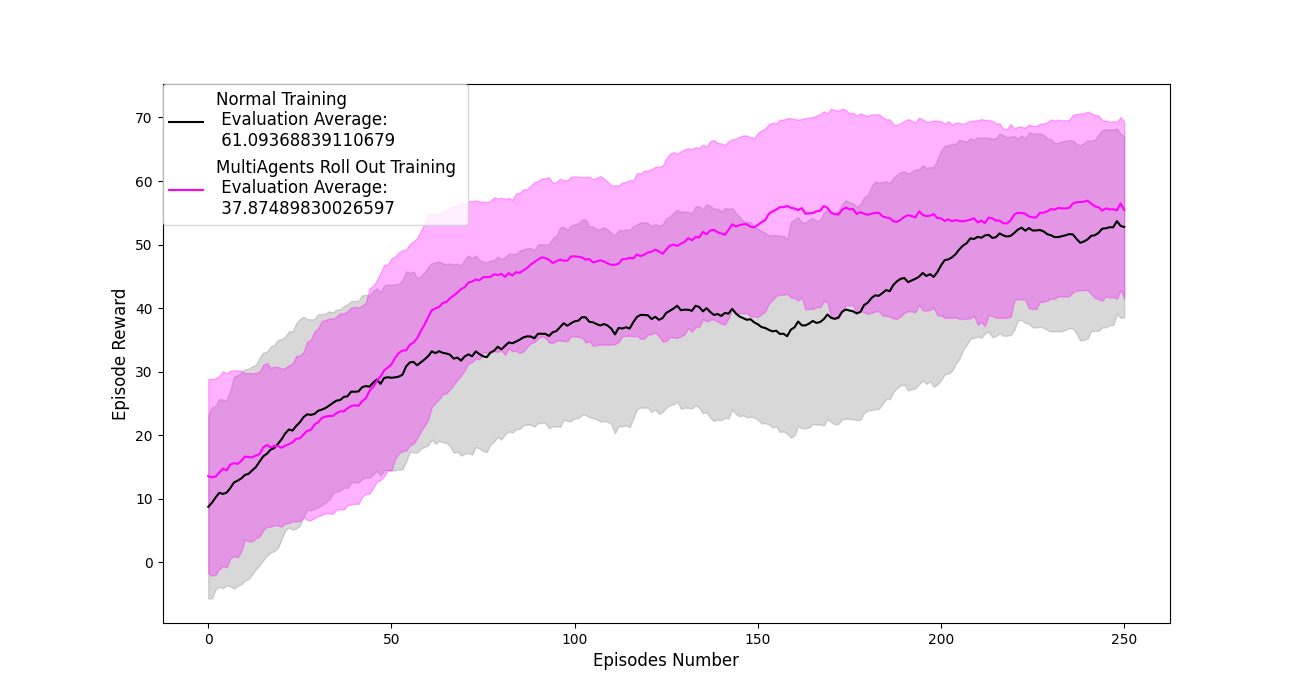
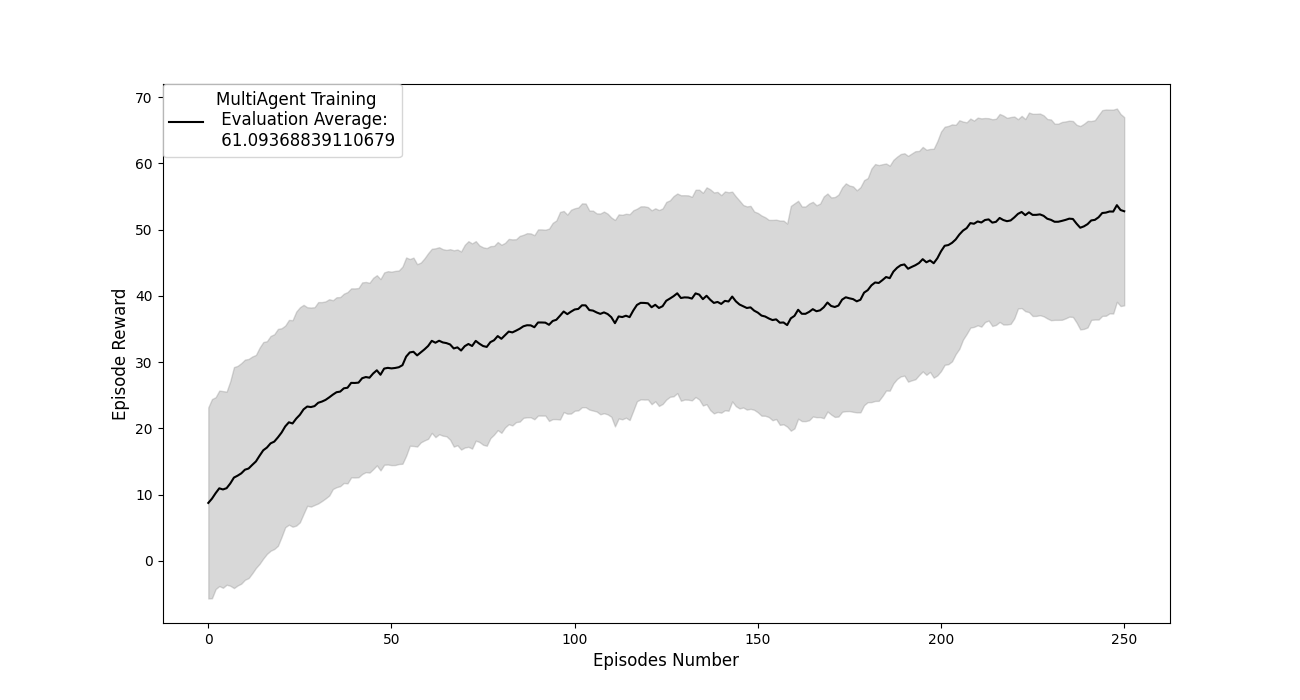
new

diff --git a/swimmer/Final/Normal.py b/swimmer/Final/Normal.py
@@ -1,0 +1,91 @@
+from tensorforce import Agent, Environment
+import matplotlib.pyplot as plt
+import numpy as np
+import math
+import pickle
+from tqdm import tqdm
+import gym
+
+episode_number=10000
+evaluation_episode_number=10
+average_over=50
+
+def set_exploration(num_steps,initial_value,decay_rate,set_type='exponential'):
+    exploration=dict(type=set_type, unit='timesteps',
+                 num_steps=num_steps,initial_value=initial_value,
+                 decay_rate=decay_rate)
+    return exploration
+exploration=set_exploration(5000,0.9,0.8)
+
+def moving_average(x, w):
+    return np.convolve(x, np.ones(w), 'valid') / w
+
+length=np.zeros(episode_number)
+measure_length=moving_average(length,average_over)
+
+if __name__ == "__main__":
+    #Normal Agent
+    #environment=Environment.create(environment='gym',level='TrafficJunction-v0')
+    environment=gym.make('Combat-v0')
+    states=environment.reset()
+    n_agent=len(states)
+    observation_shape=len(states[0])*n_agent
+    observation_specs=dict(type='float', shape=(observation_shape,))
+    action_specs=dict(type='int', shape=(n_agent,),num_values=10)
+    max_episode_timesteps=300
+    reward_record_normal=[]
+    agent_normal = Agent.create(agent='agent.json', states=observation_specs,actions=action_specs,max_episode_timesteps=max_episode_timesteps,exploration=exploration)
+    print('Training Normal Agent')
+    for _ in tqdm(range(episode_number)):
+        episode_reward=0
+        states_n = environment.reset()
+        terminal= False
+        while not terminal:
+            states=states_n[0]
+            for i in range(n_agent-1):
+                states.extend(states_n[i+1])
+            actions = agent_normal.act(states=states)
+            states_n, reward_n, terminal_n,info = environment.step(actions)
+            reward=sum(reward_n)
+            episode_reward+=reward
+            if False in terminal_n:
+                terminal=False
+            else:
+                terminal=True
+            agent_normal.observe(terminal=terminal, reward=reward)
+        reward_record_normal.append(episode_reward)
+        print(episode_reward)
+    temp=np.array(reward_record_normal)
+    reward_record_normal_average=moving_average(temp,average_over)
+    pickle.dump(reward_record_normal_average, open( "normal_average_record.p", "wb"))
+    pickle.dump(reward_record_normal, open( "normal_record.p", "wb"))
+
+    #evaluate the normal agent
+    episode_reward = 0.0
+    evaluation_reward_record_normal=[]
+    print('evaluating normal')
+    for _ in tqdm(range(evaluation_episode_number)):
+        episode_reward=0
+        states_n = environment.reset()
+        internals = agent_normal.initial_internals()
+        terminal = False
+        while not terminal:
+            states=states_n[0]
+            for i in range(n_agent-1):
+                states.extend(states_n[i+1])
+            actions, internals = agent_normal.act(
+                states=states, internals=internals, independent=True, deterministic=True
+            )
+            states_n, terminal_n, reward_n,info = environment.step(actions)
+            reward=sum(reward_n)
+            if False in terminal_n:
+                terminal=False
+            else:
+                terminal=True
+            episode_reward += reward
+        evaluation_reward_record_normal.append(episode_reward)
+        print(evaluation_reward_record_normal)
+    pickle.dump(evaluation_reward_record_normal, open( "evaluation_normal_record.p", "wb"))
+    agent_normal.save(directory='TrafficJunction', format='numpy')
+    agent_normal.close()
+    environment.close()

diff --git a/swimmer/Final/Plot.py b/swimmer/Final/Plot.py
@@ -1,0 +1,43 @@
+from tensorforce import Agent, Environment
+import matplotlib.pyplot as plt
+import numpy as np
+import math
+import pickle
+from tqdm import tqdm
+import gym
+import statistics 
+
+from Normal import episode_number
+from Normal import average_over
+from Normal import evaluation_episode_number
+from Normal import measure_length
+
+
+braket_size=50
+
+normal_record=pickle.load(open("normal_record.p","rb"))
+normal_average=[]
+normal_standard_deviation=[]
+for j in range(len(normal_record)-braket_size+1):
+	braket_normal=normal_record[j:j+braket_size]
+	normal_mean=statistics.mean(braket_normal)
+	normal_average.append(normal_mean)
+	normal_standard_deviation.append(statistics.stdev(braket_normal, xbar = normal_mean))
+
+normal_average=np.array(normal_average)
+normal_standard_deviation=np.array(normal_standard_deviation)
+
+evaluation_reward_record_normal=pickle.load(open( "evaluation_normal_record.p", "rb"))
+average_normal=sum(evaluation_reward_record_normal)/evaluation_episode_number
+
+
+#plot
+x=range(len(normal_average))
+plt.figure(figsize=(13,7))
+plt.plot(x,normal_average,label='MultiAgent Training \n Evaluation Average: \n %s' %average_normal,color='black')
+plt.fill_between(x, normal_average-normal_standard_deviation, normal_average+normal_standard_deviation,color='gray',alpha=0.3)
+plt.xlabel('Episodes Number',fontsize='large')
+plt.ylabel('Episode Reward',fontsize='large')
+plt.legend(loc='upper left',ncol=1, borderaxespad=0,prop={'size': 12})
+plt.savefig('Hopper.png')
+
